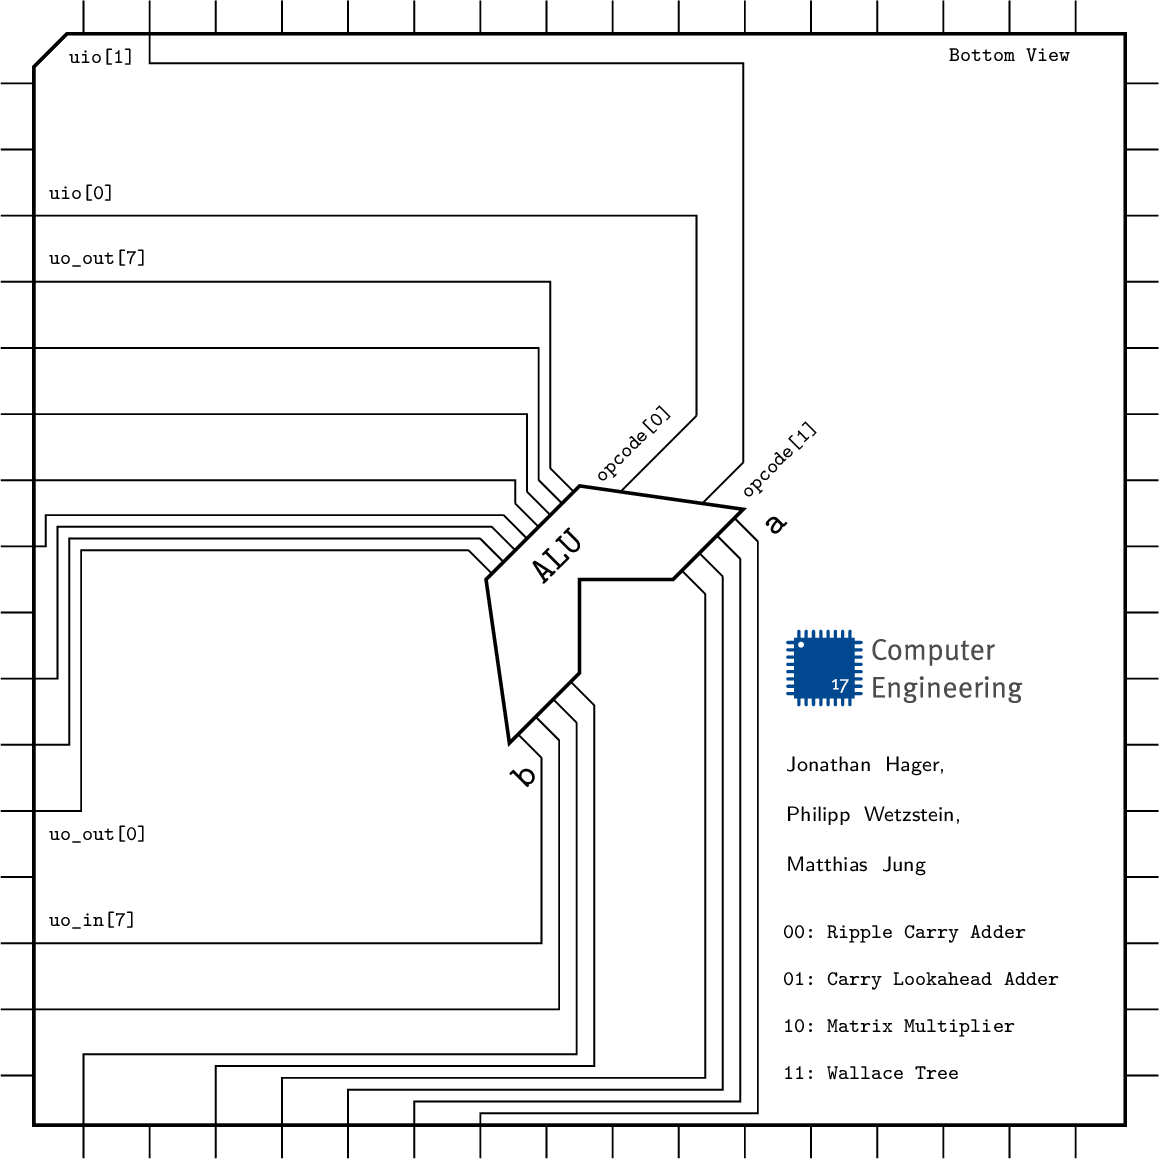
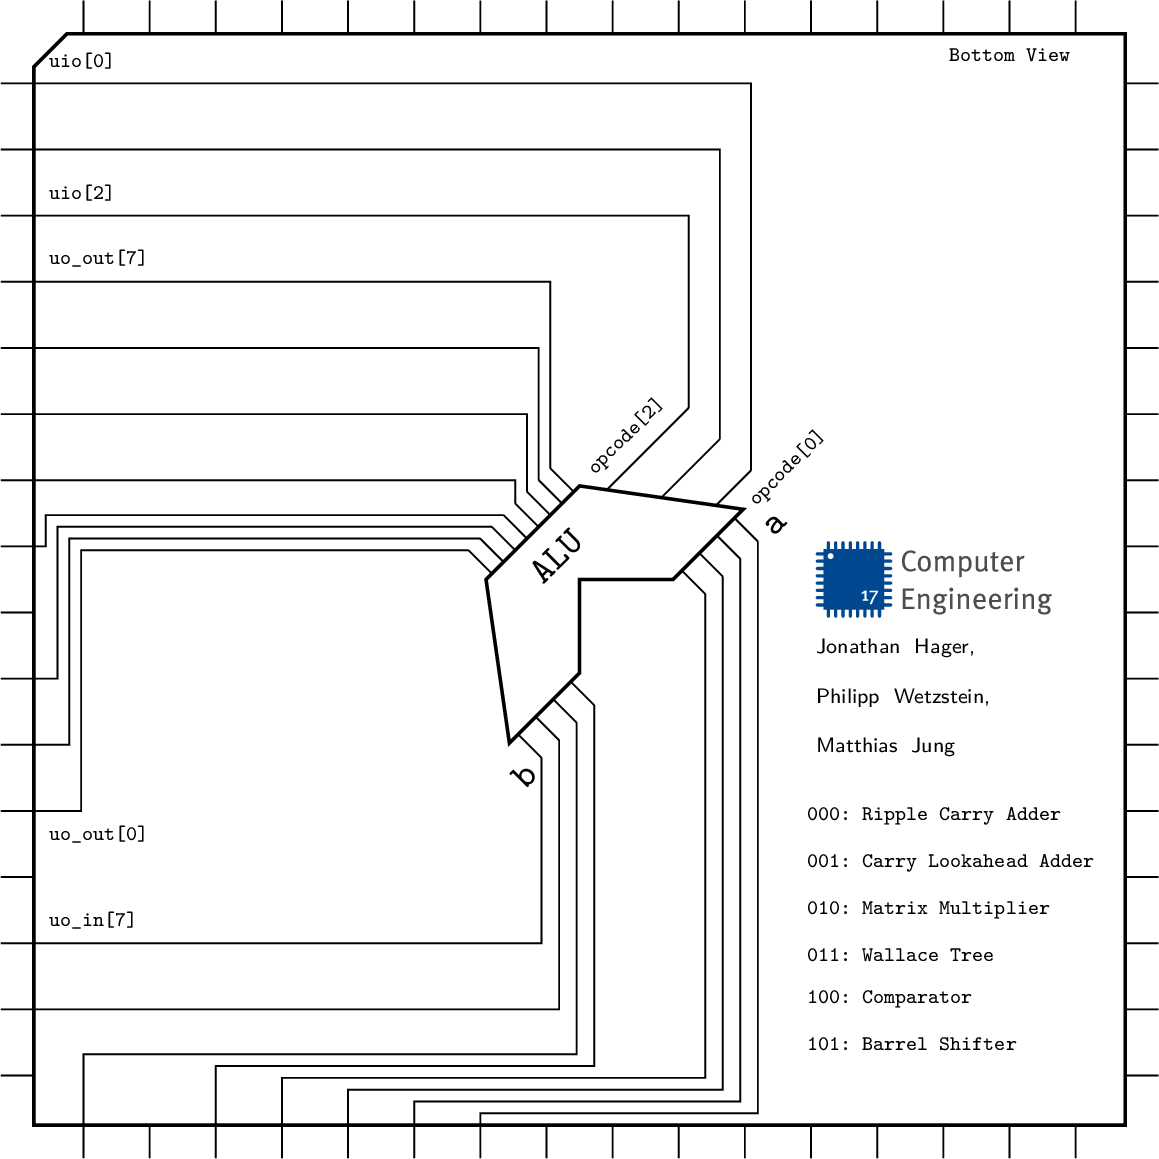
Updated Documentation

diff --git a/resources/4-Bit-ALU.tex b/resources/4-Bit-ALU.tex
@@ -4,7 +4,7 @@
     \begin{tikzpicture}
         \draw (0,0) node[qfpchip, num pins=64, hide numbers](C){};
         %
-        \tikzset{ALU/.style={muxdemux, muxdemux def={Lh=5, NL=8, Rh=2, NR=8, NB=2, NT=0, w=2, inset w=1, inset Lh=2, inset Rh=0, square pins=1}}}
+        \tikzset{ALU/.style={muxdemux, muxdemux def={Lh=5, NL=8, Rh=2, NR=8, NB=3, NT=0, w=2, inset w=1, inset Lh=2, inset Rh=0, square pins=1}}}
         \draw (C.center) node[ALU, rotate=135 , scale=1](A){\rotatebox {-90}{\small \ttfamily ALU}};
         %
         \draw (A.lpin 1) node [rotate=45, anchor=east](){\small \ttfamily b~};
@@ -29,26 +29,31 @@
         \draw (C.bpin 11) -- ++(0.30,0) |- (A.rpin 2);
         \draw (C.bpin 12) -- ++(0.40,0) |- (A.rpin 1);
         %
-        \draw (C.bpin  3) -| (A.bpin 2);
-        \draw (C.bpin 63) -- ++(0,-0.25) -| (A.bpin 1);
+        \draw (C.bpin  3) -| (A.bpin 3);
+        \draw (C.bpin  2) -| (A.bpin 2);
+        % \draw (C.bpin 63) -- ++(0,-0.25) -| (A.bpin 1);
+        \draw (C.bpin 1) -| (A.bpin 1);
         %
         \draw (C.bpin 50) node [anchor=north] () {\tiny \ttfamily Bottom View};
-        \draw (C.bpin  3) node [anchor=south west] () {\tiny \ttfamily uio[0]};
+        \draw (C.bpin  3) node [anchor=south west] () {\tiny \ttfamily uio[2]};
         \draw (C.bpin  4) node [anchor=south west] () {\tiny \ttfamily uo\_out[7]};
         \draw (C.bpin 12) node [anchor=north west] () {\tiny \ttfamily uo\_out[0]};
         \draw (C.bpin 14) node [anchor=south west] () {\tiny \ttfamily uo\_in[7]};
-        \draw (C.bpin 63) node [anchor=north east] () {\tiny \ttfamily uio[1]};
-        \draw (A.bpin 1) node [anchor=north, rotate=45] () {\tiny \ttfamily ~~~~~opcode[1]};
-        \draw (A.bpin 2) node [anchor=south east, rotate=45] () {\tiny \ttfamily opcode[0]};
+        \draw (C.bpin 1) node [anchor=south west] () {\tiny \ttfamily uio[0]};
+        \draw (A.bpin 1) node [anchor=north, rotate=45] () {\tiny \ttfamily ~~~~~opcode[0]};
+        %\draw (A.bpin 2) node [anchor=south east, rotate=45, xshift=1cm] () {\tiny \ttfamily ~~~~~opcode[1]};
+        \draw (A.bpin 3) node [anchor=south east, rotate=45] () {\tiny \ttfamily opcode[2]};
         %
-        \draw(C.center) ++(2.75,-3.00) node[](1){\tiny \ttfamily 00: Ripple Carry Adder};
-        \draw(1.south west) node[anchor=north west](2){\tiny \ttfamily 01: Carry Lookahead Adder};
-        \draw(2.south west) node[anchor=north west](3){\tiny \ttfamily 10: Matrix Multiplier};
-        \draw(3.south west) node[anchor=north west](4){\tiny \ttfamily 11: Wallace Tree};
+        \draw(C.center) ++(3,-2.00) node[](1){\tiny \ttfamily 000: Ripple Carry Adder};
+        \draw(1.south west) node[anchor=north west](2){\tiny \ttfamily 001: Carry Lookahead Adder};
+        \draw(2.south west) node[anchor=north west](3){\tiny \ttfamily 010: Matrix Multiplier};
+        \draw(3.south west) node[anchor=north west](4){\tiny \ttfamily 011: Wallace Tree};
+        \draw(4.south west) node[anchor=north west](5){\tiny \ttfamily 100: Comparator};
+        \draw(5.south west) node[anchor=north west](6){\tiny \ttfamily 101: Barrel Shifter};
         %
-        \draw(C.center) ++(2.75,-2.00) node[text width=2cm, align=left](1){\tiny
+        \draw(C.center) ++(3,-1.00) node[text width=2cm, align=left](1){\tiny
         \sffamily Jonathan Hager, Philipp Wetzstein, Matthias Jung};
         %
-        \draw(C.center) ++(2.75,-0.75) node[](){\includegraphics[width=2cm]{Logo-EN.pdf}};
+        \draw(C.center) ++(3,0) node[](){\includegraphics[width=2cm]{Logo-EN.pdf}};
     \end{tikzpicture}
 \end{document}

diff --git a/src/test.py b/src/test.py
@@ -126,14 +126,12 @@ async def test_barrel_shifter(dut):
         a = binary[4:]
         b = binary[2:4]
         c = binary[1]
-    
 
         if int(b, base=2) == 0:
             assert (dut.uo_out.value == int(a, base=2))
 
-
-        elif int(c, base=2) == 0 and int(b, base=2) ==1:
-            assert (dut.uo_out.value == int( "0"+ a[:-1] ,base =2))
+        elif int(c, base=2) == 0 and int(b, base=2) == 1:
+            assert (dut.uo_out.value == int("0"+a[:-1], base=2))
 
         elif int(c, base=2) == 0 and int(b, base=2) ==2:
             assert (dut.uo_out.value == int("00"+a[:-2],base =2))
@@ -150,7 +148,3 @@ async def test_barrel_shifter(dut):
 
         elif int(c, base=2) == 1 and int(b, base=2) ==3:
             assert (dut.uo_out.value == (int(a[3:] +"000",base=2)))
-    
-
-        
-       
